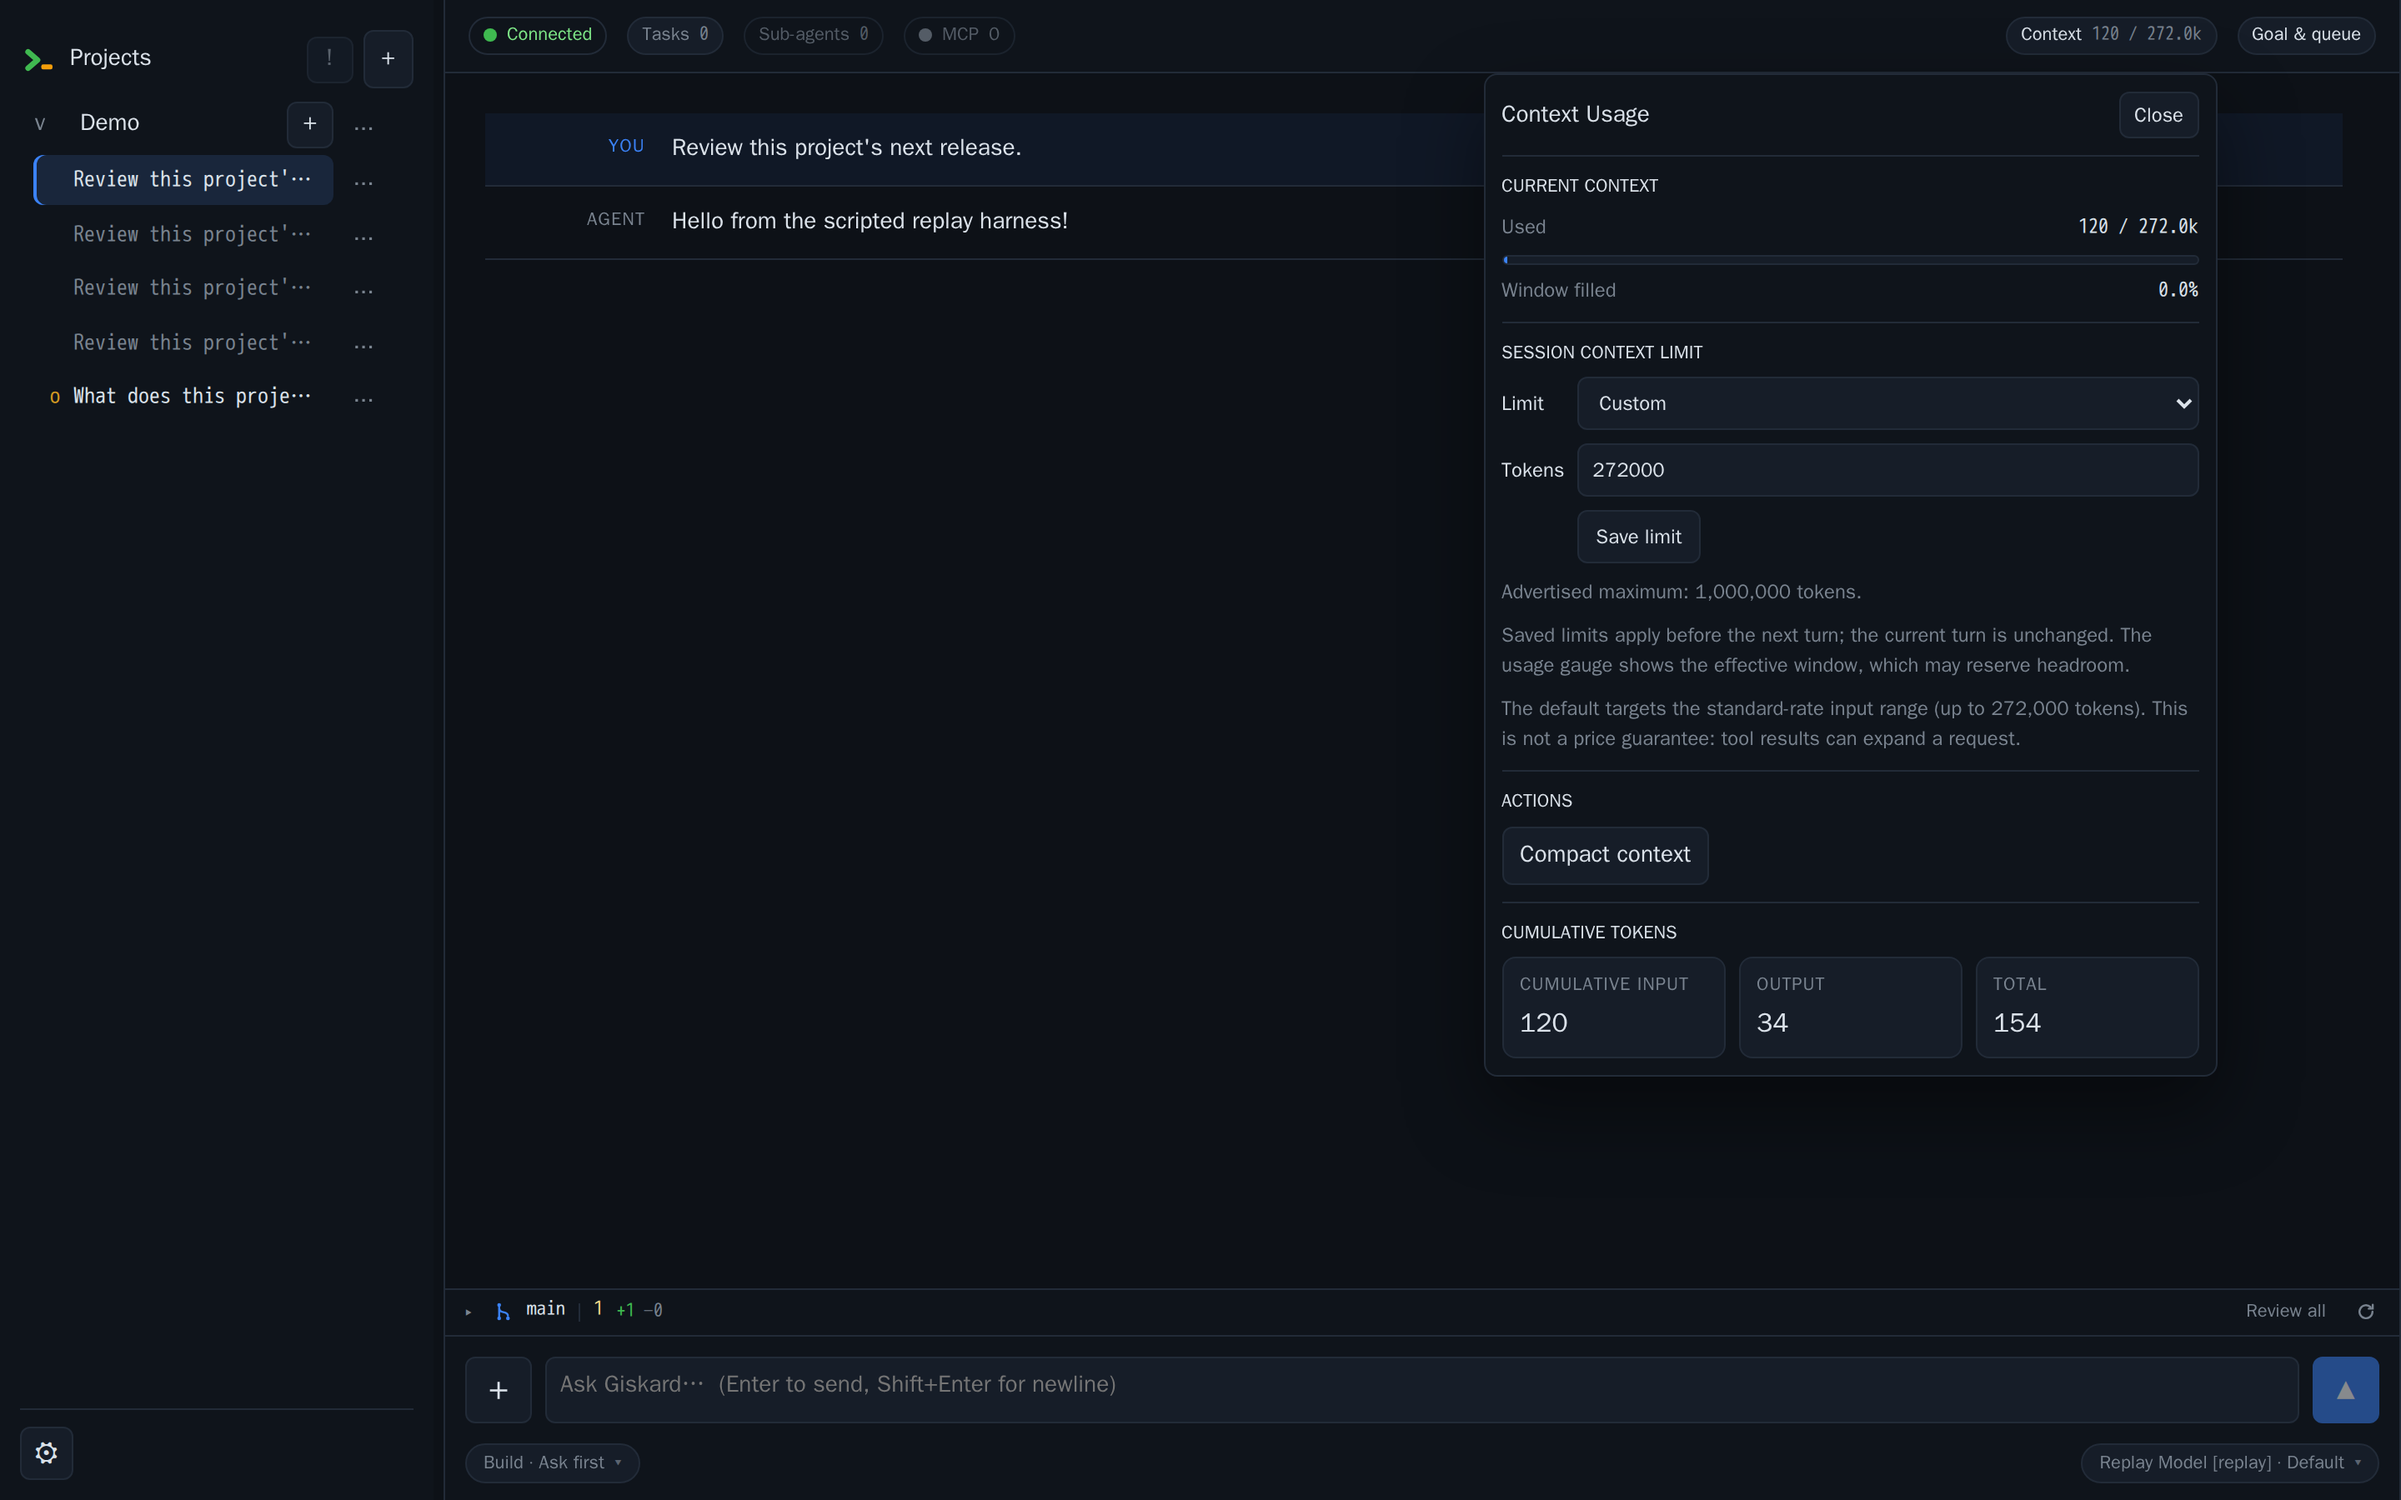
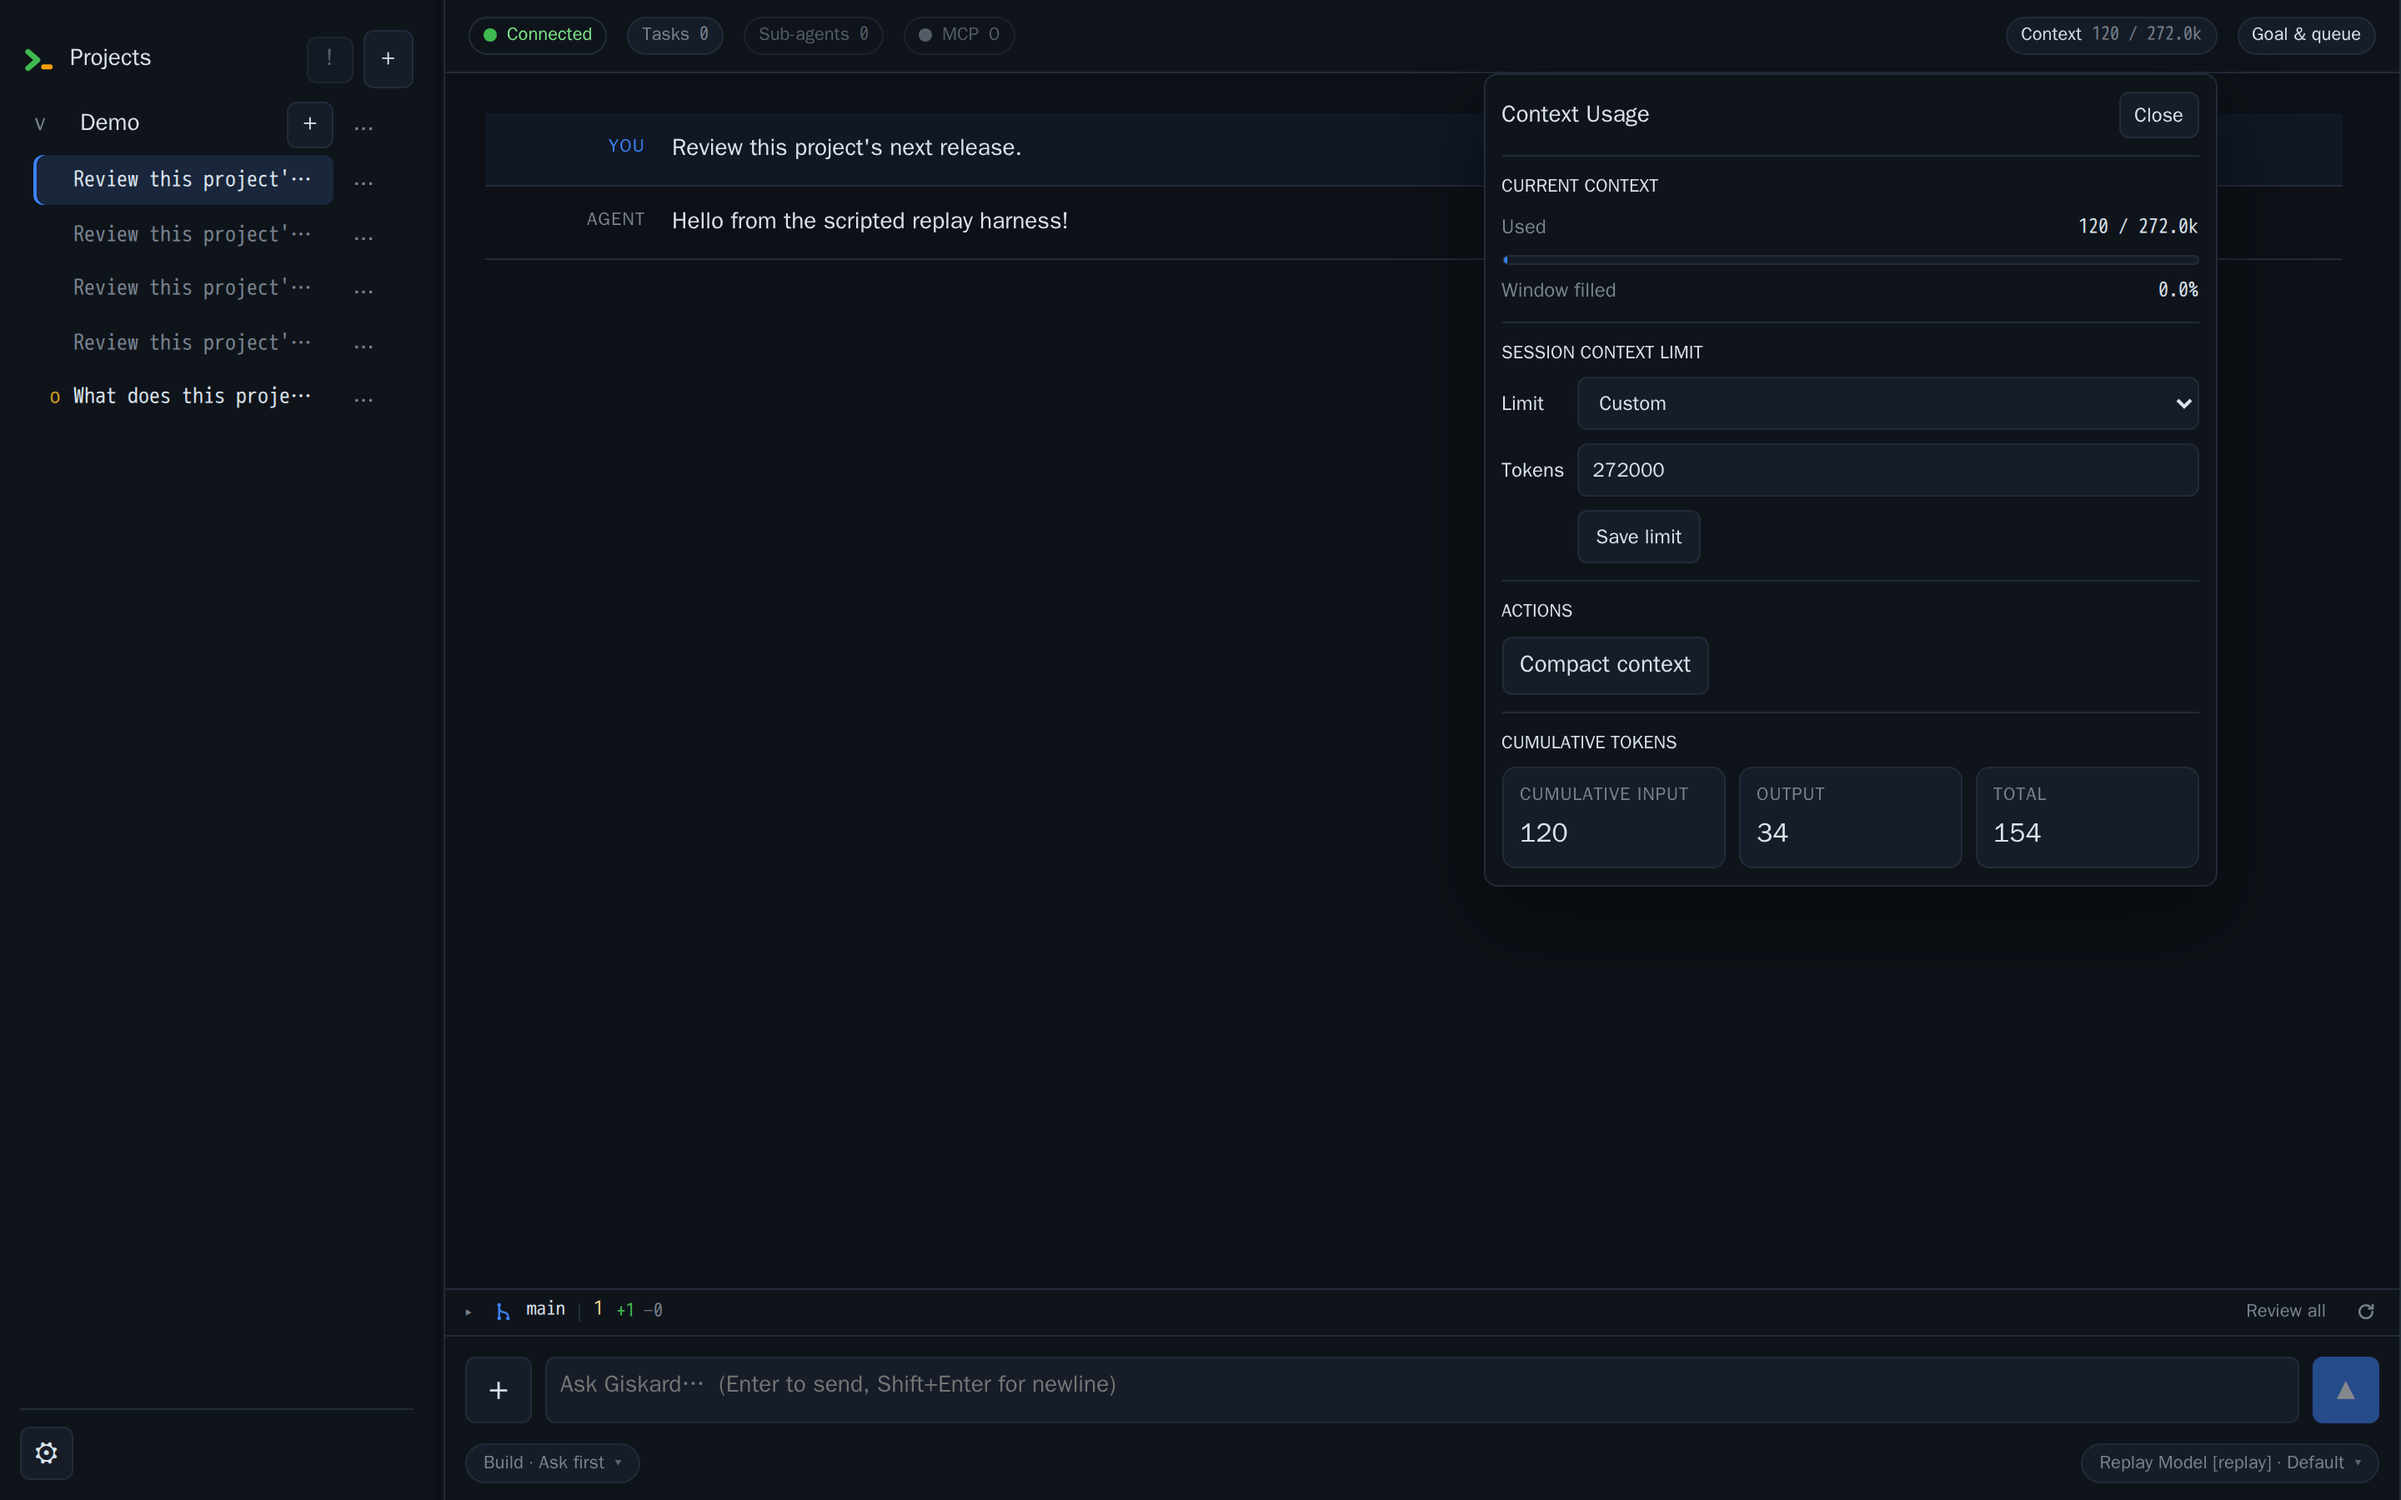
Use native Codex context limits in session controls

diff --git a/crates/giskard-server/static/app.js b/crates/giskard-server/static/app.js
@@ -11537,9 +11537,9 @@ function renderContextWindowEditor() {
   const readOnly = state.threadReadOnly || managedThreadReadOnly();
   const knownMaximum = Number.isSafeInteger(config.advertised_maximum) && config.advertised_maximum > 0;
   const configurable = config.can_configure && knownMaximum && !readOnly;
-  const explanation = readOnly ? "This thread is read-only." : !knownMaximum ?
-    "The provider has not advertised a maximum; custom limits are unavailable." :
-    !config.can_configure ? "This provider does not support session context limits." : "";
+  const explanation = readOnly ? "This thread is read-only." : !config.can_configure ?
+    "Session context limits are unavailable for this thread." : !knownMaximum ?
+    "No configurable maximum is available for this model." : "";
   const custom = config.override_window !== null && config.override_window !== undefined;
   host.insertAdjacentHTML("beforeend", `
     <div class="context-limit-controls">
@@ -11552,8 +11552,7 @@ function renderContextWindowEditor() {
       <input id="contextWindowValue" type="number" inputmode="numeric" step="1" min="${Number(config.default_window)}" max="${Number(config.advertised_maximum || config.default_window)}" value="${Number(config.selected_window)}" ${configurable && custom ? "" : "disabled"}>
       <button id="contextWindowSave" class="btn" type="button" ${configurable ? "" : "disabled"}>Save limit</button>
     </div>
-    <div class="muted context-limit-note">Advertised maximum: ${knownMaximum ? Number(config.advertised_maximum).toLocaleString() + " tokens" : "unknown"}. ${escapeHtml(explanation)}</div>
-    <div class="muted context-limit-note">Saved limits apply before the next turn; the current turn is unchanged. The usage gauge shows the effective window, which may reserve headroom.</div>
+    <div class="muted context-limit-note" ${explanation ? "" : "hidden"}>${escapeHtml(explanation)}</div>
     <div id="contextWindowPremium" class="context-limit-warning" hidden></div>
     <div id="contextWindowStatus" class="context-limit-note" role="status"></div>`);
   const update = () => {
@@ -11561,11 +11560,9 @@ function renderContextWindowEditor() {
     const value = $("contextWindowMode").value === "default" ? config.default_window : Number($("contextWindowValue").value);
     const warning = $("contextWindowPremium");
     const above = config.non_premium_window && value > config.non_premium_window;
-    warning.hidden = !config.non_premium_window;
+    warning.hidden = !above;
     warning.textContent = above ?
-      `Above ${Number(config.non_premium_window).toLocaleString()} input tokens, premium long-context rates can apply to the full request.` :
-      `The default targets the standard-rate input range (up to ${Number(config.non_premium_window || 0).toLocaleString()} tokens).`;
-    if (config.non_premium_window) warning.textContent += " This is not a price guarantee: tool results can expand a request.";
+      `Above ${Number(config.non_premium_window).toLocaleString()} tokens, long-context rates apply to the full request.` : "";
   };
   $("contextWindowMode").onchange = update;
   $("contextWindowValue").oninput = update;

diff --git a/tests/e2e/tests/context-window.spec.ts b/tests/e2e/tests/context-window.spec.ts
@@ -44,8 +44,7 @@ test("context edits survive usage updates without another catalog request", asyn
   await expect(input).toBeFocused();
   await expect(input).toHaveValue("500000");
   await expect(page.locator("#usageCurrentValues")).toHaveText("12.3k / 258.4k");
-  await expect(page.locator("#contextWindowPremium")).toContainText("premium long-context rates");
-  await expect(page.locator("#contextWindowPremium")).toContainText("not a price guarantee");
+  await expect(page.locator("#contextWindowPremium")).toContainText("long-context rates");
   expect(reads).toBe(1);
   await page.locator("#contextWindowSave").click();
   await expect(page.locator("#contextWindowStatus")).toContainText("Saved for the next turn");
@@ -88,7 +87,7 @@ test("unknown maximum and read-only sessions cannot edit limits", async ({ page 
   await createThread(page);
   await openMenu(page);
   await expect(page.locator("#contextWindowSave")).toBeDisabled();
-  await expect(page.locator("#contextWindowSettings")).toContainText("has not advertised a maximum");
+  await expect(page.locator("#contextWindowSettings")).toContainText("Session context limits are unavailable");
   await page.locator("#usageClose").click();
   config = { ...fixture, can_configure:false };
   // Exercise the browser's read-only guard even if a stale response says it is configurable.

diff --git a/crates/giskard-harness-codex/src/lib.rs b/crates/giskard-harness-codex/src/lib.rs
@@ -2562,6 +2562,37 @@ async fn default_model_provider(
     Ok(non_empty(config.model_provider).unwrap_or_else(|| CODEX_DEFAULT_PROVIDER.to_string()))
 }
 
+// Keep catalog strings open-ended: newer native modalities and agent versions must not
+// invalidate the whole model list when the generated SDK's enums lag behind.
+#[derive(serde::Deserialize)]
+#[serde(rename_all = "camelCase")]
+struct NativeModelPage {
+    data: Vec<NativeCatalogModel>,
+    #[serde(default)]
+    next_cursor: Option<String>,
+}
+
+#[derive(serde::Deserialize)]
+#[serde(rename_all = "camelCase")]
+struct NativeCatalogModel {
+    #[serde(default)]
+    id: String,
+    #[serde(default)]
+    model: String,
+    #[serde(default)]
+    display_name: String,
+    #[serde(default)]
+    hidden: bool,
+    #[serde(default)]
+    is_default: bool,
+    default_reasoning_effort: codex_codes::ReasoningEffort,
+    #[serde(default)]
+    supported_reasoning_efforts: Vec<codex_codes::ReasoningEffortOption>,
+    #[serde(default)]
+    context_window: Option<u64>,
+    #[serde(default)]
+    max_context_window: Option<u64>,
+}
 /// List the models Codex advertises over the app-server `model/list` RPC, mapped to Giskard
 /// [`ModelDescriptor`]s so the picker can show Codex's friendly `display_name` instead of raw
 /// model ids.
@@ -2572,9 +2603,9 @@ async fn default_model_provider(
 /// built-in providers carry no `base_url` to discover against, with nothing in the picker at all.
 ///
 /// So the catalog is attributed to the provider Codex itself routes to, read from the same
-/// `config/read` that supplies the provider table. Codex omits the context window from this RPC,
-/// so descriptors still use the conservative default; these entries size no gauge until the
-/// harness reports a real window at turn time.
+/// `config/read` that supplies the provider table. Current Codex versions include the normal
+/// session window and the largest configurable window. Older versions may omit both, leaving the
+/// conservative default until another catalog source or runtime usage supplies a capacity.
 async fn handle_list_models(
     client: &mut dyn CodexTransport,
     cwd: String,
@@ -2590,7 +2621,7 @@ async fn handle_list_models(
             include_hidden: None,
             limit: None,
         };
-        let page: codex_codes::ModelListResponse = codex_request(
+        let page: NativeModelPage = codex_request(
             client,
             CodexOperationContext::new("list_models"),
             codex_codes::protocol::methods::MODEL_LIST,
@@ -2615,8 +2646,8 @@ async fn handle_list_models(
 
 /// Map a Codex `model/list` entry to a Giskard [`ModelDescriptor`] under `provider`. See
 /// [`handle_list_models`] for where that provider comes from — the entry itself names none — and
-/// why the context window is conservative.
-fn map_model(model: codex_codes::Model, provider: &str) -> ModelDescriptor {
+/// how its context capacity is mapped.
+fn map_model(model: NativeCatalogModel, provider: &str) -> ModelDescriptor {
     // `model` is the wire slug used in a ModelRef; `id` is the preset id. Prefer the slug, but fall
     // back to the id if an older/edge payload leaves it empty.
     let id = if model.model.is_empty() {
@@ -2641,11 +2672,20 @@ fn map_model(model: codex_codes::Model, provider: &str) -> ModelDescriptor {
     if reasoning_efforts.is_empty() && default_reasoning_effort != "none" {
         reasoning_efforts.push(default_reasoning_effort);
     }
+    let context_window = model
+        .context_window
+        .and_then(|value| u32::try_from(value).ok())
+        .filter(|value| *value > 0);
+    let advertised_context_window = model
+        .max_context_window
+        .and_then(|value| u32::try_from(value).ok())
+        .filter(|value| *value > 0)
+        .or(context_window);
     ModelDescriptor {
         provider: provider.to_string(),
         model: id,
-        context_window: ModelDescriptor::CONSERVATIVE_CONTEXT_WINDOW,
-        advertised_context_window: None,
+        context_window: context_window.unwrap_or(ModelDescriptor::CONSERVATIVE_CONTEXT_WINDOW),
+        advertised_context_window,
         supports_reasoning_effort: !reasoning_efforts.is_empty(),
         reasoning_efforts,
         display_name,
@@ -3293,7 +3333,9 @@ mod tests {
                                     { "reasoningEffort": "high", "description": "" }
                                 ],
                                 "defaultReasoningEffort": "medium",
-                                "isDefault": true
+                                "isDefault": true,
+                                "contextWindow": 272000,
+                                "maxContextWindow": 872000
                             },
                             {
                                 "id": "gpt-5.5-mini",
@@ -3303,7 +3345,8 @@ mod tests {
                                 "hidden": false,
                                 "supportedReasoningEfforts": [],
                                 "defaultReasoningEffort": "medium",
-                                "isDefault": false
+                                "isDefault": false,
+                                "contextWindow": 128000
                             },
                             {
                                 "id": "internal-secret",
@@ -5022,11 +5065,8 @@ mod tests {
         // Codex routes to — `openai` here, the built-in default, since this config sets no
         // `model_provider`. Without that a stock setup has nothing to put in the picker.
         assert_eq!(flagship.provider, "openai");
-        // The context window is still absent from this RPC.
-        assert_eq!(
-            flagship.context_window,
-            ModelDescriptor::CONSERVATIVE_CONTEXT_WINDOW
-        );
+        assert_eq!(flagship.context_window, 272_000);
+        assert_eq!(flagship.advertised_context_window, Some(872_000));
 
         let mini = &models[1];
         assert_eq!(mini.model, "gpt-5.5-mini");
@@ -5036,6 +5076,8 @@ mod tests {
             "a non-none default is the sole effort when alternatives are empty"
         );
         assert_eq!(mini.reasoning_efforts, vec!["medium"]);
+        assert_eq!(mini.context_window, 128_000);
+        assert_eq!(mini.advertised_context_window, Some(128_000));
 
         assert!(
             controller

diff --git a/docs/session-context-limits.md b/docs/session-context-limits.md
@@ -26,5 +26,7 @@ maximum. An already-loaded child keeps the configuration it started with.
 
 Changing effort or service tier preserves the override. Changing provider or model clears it so a
 limit chosen against one advertised capacity cannot silently carry to another. If discovery later
-shrinks the maximum, the applied selection is clamped to the current bound. A model with no known
-advertised maximum can use its conservative/default limit but cannot accept a custom value.
+shrinks the maximum, the applied selection is clamped to the current bound. Codex's native catalog
+supplies `contextWindow` as the normal session limit and `maxContextWindow` as the configurable
+ceiling; when only `contextWindow` is present it serves as both values. A model with neither can
+use its conservative/default limit but cannot accept a custom value.
